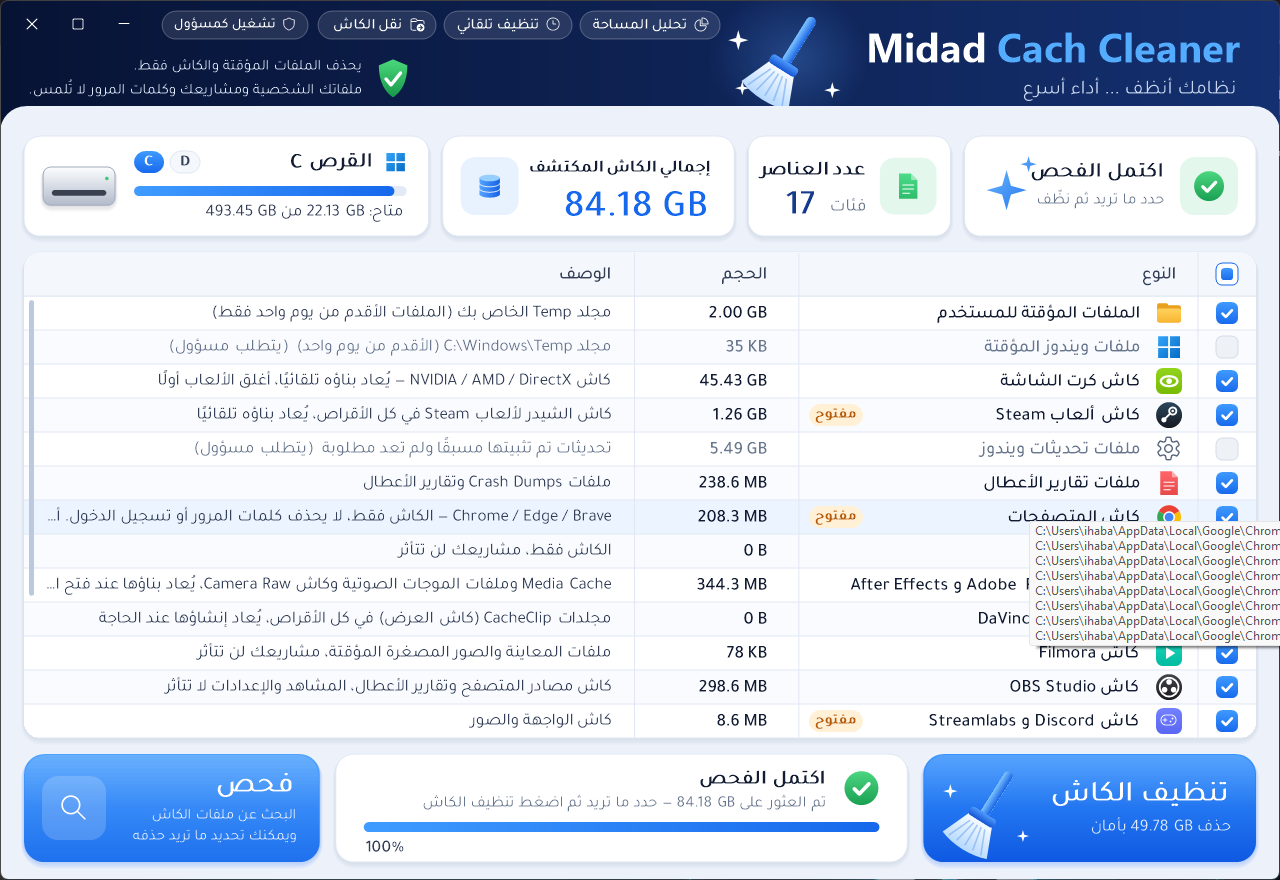
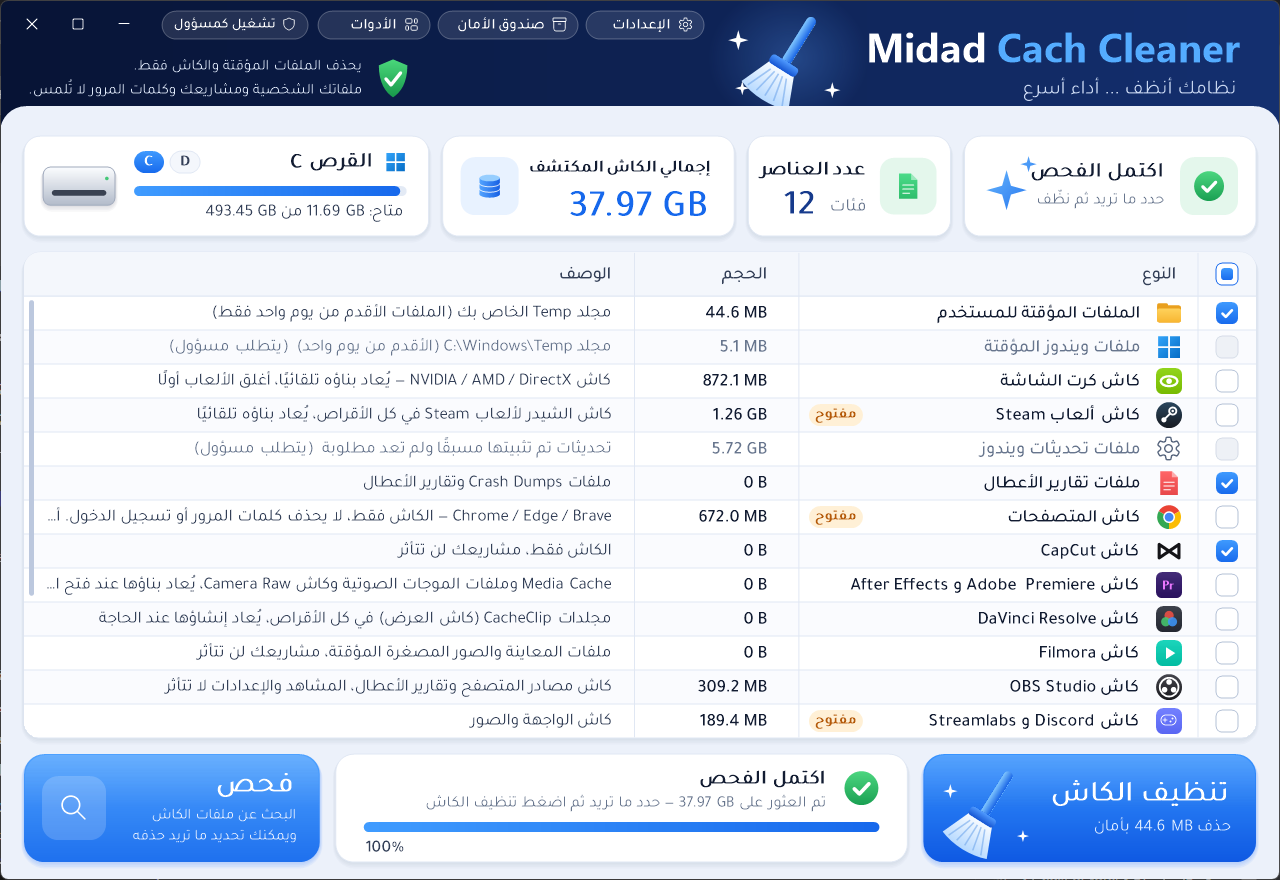
Download page for 1.5.0
New features and screenshots for the tools added in 1.4.0 and 1.5.0,
updated safety and removal notes, and the installer as the only download.

diff --git a/README.md b/README.md
@@ -10,12 +10,9 @@
 
 ## التحميل
 
-من صفحة [**آخر إصدار**](https://github.com/midad1ar/Midad-Cach-Cleaner-Releases/releases/latest) حمّل أحد الملفين:
+من صفحة [**آخر إصدار**](https://github.com/midad1ar/Midad-Cach-Cleaner-Releases/releases/latest) حمّل الملف `MidadCachCleaner-Setup.exe`.
 
-| الملف | الاستخدام |
-|---|---|
-| `MidadCachCleaner-Setup.exe` | مثبّت: يضيف البرنامج لقائمة ابدأ وسطح المكتب، ويمكن إزالته من إعدادات ويندوز ← التطبيقات. لا يحتاج صلاحيات مسؤول. |
-| `MidadCachCleaner-Portable.exe` | نسخة محمولة تعمل مباشرة بدون تثبيت. |
+المثبّت يضيف البرنامج لقائمة ابدأ وسطح المكتب، ويمكن إزالته من إعدادات ويندوز ← التطبيقات. لا يحتاج صلاحيات مسؤول، ويحدّث النسخة المثبتة إن وُجدت.
 
 يعمل على ويندوز 10 و 11 بدون تثبيت أي شيء إضافي (يستخدم .NET Framework 4.8 الموجود في ويندوز).
 
@@ -26,21 +23,52 @@
 - **فحص وتنظيف 19 فئة من الكاش:** الملفات المؤقتة، كاش كرت الشاشة، Steam، تحديثات ويندوز، تقارير الأعطال، المتصفحات (Chrome / Edge / Brave)، CapCut، Discord، Streamlabs، VS Code، Spotify، Telegram، pip، npm، Gradle، Flutter، NuGet، وسلة المحذوفات.
 - **كاش برامج المونتاج والبث:** Adobe Premiere و After Effects (Media Cache وملفات الموجات الصوتية وكاش Camera Raw)، و DaVinci Resolve (CacheClip)، و Filmora، و OBS Studio.
 - **تحليل المساحة:** يعرض أكبر المجلدات (مع الدخول إلى داخلها) وأكبر 100 ملف في أي قرص، مع توضيح للملفات المعروفة مثل hiberfil.sys و Windows.old. يعرض فقط ولا يحذف أي شيء.
-- **التحقق من التحديثات:** يظهر زر أخضر عند صدور إصدار جديد، ويُحدَّث البرنامج بضغطة واحدة. المثبّت يُنزَّل من هذه الصفحة فقط، ولا يُشغَّل إلا إذا طابقت بصمته SHA-256 البصمة المنشورة.
+- **ضغط الألعاب والبرامج:** يضغط مجلدات ألعاب Steam و Epic والبرامج بتقنية الضغط المدمجة في ويندوز (نفس تقنية Compact OS). تعمل الألعاب كما هي، والملفات التي يحدّثها البرنامج تُفك تلقائيًا، ويمكن فك الضغط في أي وقت. يعرض التوفير المتوقع قبل البدء، وكثير من الألعاب الكبيرة يوفّر 10–30%.
+- **تنظيف التنزيلات الذكي:** يجد في مجلد التنزيلات:
+  - مثبتات لبرامج مثبتة عندك.
+  - ملفات zip فككتها بجانبها (يتحقق أن كل ملفاتها موجودة في المجلد).
+  - نسخًا مكررة بنفس المحتوى.
+  - تنزيلات لم تكتمل، وصور أقراص قديمة.
+  - لا يقترح أي ملف يستخدمه مشروع CapCut.
+- **مشاريع CapCut:** يقرأ مشاريع CapCut ويجد الفيديوهات والأصوات التي لا يستخدمها إلا مشاريع قديمة أو محذوفة، ومعها سلة المشاريع المحذوفة داخل CapCut.
+- **ماذا أكل مساحتي؟** يسجل كل يوم أحجام المجلدات الكبيرة والمساحة الفارغة، ثم يخبرك أي مجلد كبر هذا الأسبوع أو الشهر، ويتوقع متى سيمتلئ القرص بهذا المعدل. ويمكنه تنبيهك قبل أسبوع من امتلاء القرص.
+- **بقايا البرامج المحذوفة:** يجد مجلدات AppData و ProgramData لبرامج لم تعد مثبتة. يقارن أسماءها بقائمة البرامج وقائمة ابدأ و Program Files وتطبيقات المتجر، ولا يقترح إلا ما لم يتغير منذ شهرين على الأقل.
+- **المشاريع القديمة:** يجد node_modules و build و bin/obj و .venv ومعاينات Premiere وكاش DaVinci داخل مشاريع البرمجة والمونتاج. لا يعتبر المجلد قابلًا للحذف إلا إذا وجد ملف المشروع بجانبه، مثل package.json أو pubspec.yaml أو .csproj.
+- **صندوق الأمان:** ما تحذفه من بقايا البرامج والمشاريع القديمة يُنقل أولًا إلى صندوق على نفس القرص، وهو نقل فوري بدون نسخ. يمكنك استرجاعه بضغطة، ثم يُحذف تلقائيًا بعد المدة التي تختارها (3 أو 7 أو 14 أو 30 يومًا). ويمكن تفعيله لتنظيف الكاش أيضًا.
+- **صفحة الإعدادات:** فيها التنظيف التلقائي والتنبيهات وصندوق الأمان وتتبع المساحة، والفحص والتحقق من التحديثات عند الفتح.
+- **التحقق من التحديثات:** يظهر زر أخضر عند صدور إصدار جديد. المثبّت يُنزَّل من صفحة الإصدارات الرسمية فقط، ولا يُشغَّل إلا إذا طابقت بصمته SHA-256 البصمة المنشورة.
 - **كل الأقراص:** يكتشف الأقراص تلقائيًا ويعرض المساحة الفارغة وحجم الكاش في كل قرص.
 - **تنبيه البرامج المفتوحة:** علامة "مفتوح" بجانب البرامج التي تعمل الآن، لأن ملفاتها المستخدمة لا يمكن حذفها.
 - **زر إيقاف:** يمكن إيقاف الفحص أو التنظيف في أي لحظة.
 - **نقل الكاش إلى قرص آخر:** ينقل كاش Gradle و Hugging Face و pip و npm و NuGet و Flutter إلى قرص آخر، ويوجّه الأدوات للمكان الجديد. يمكن إرجاعه في أي وقت.
-- **تنظيف تلقائي:** يومي أو أسبوعي أو شهري في الخلفية، مع تنبيه عندما تقل مساحة القرص C.
+- **تنظيف تلقائي:** يومي أو أسبوعي أو شهري في الخلفية، مع تنبيه عندما تقل مساحة القرص C أو عندما يقترب امتلاؤه.
 - **يتذكر اختياراتك** بين مرة وأخرى.
+
+| الأدوات | ضغط الألعاب والبرامج |
+|---|---|
+| ![الأدوات](docs/tools.png) | ![ضغط الألعاب والبرامج](docs/compress.png) |
+
+| تنظيف التنزيلات الذكي | مشاريع CapCut |
+|---|---|
+| ![تنظيف التنزيلات](docs/downloads.png) | ![مشاريع CapCut](docs/capcut.png) |
+
+| ماذا أكل مساحتي؟ | صندوق الأمان |
+|---|---|
+| ![ماذا أكل مساحتي](docs/growth.png) | ![صندوق الأمان](docs/box.png) |
+
+| المشاريع القديمة | بقايا البرامج المحذوفة |
+|---|---|
+| ![المشاريع القديمة](docs/projects.png) | ![بقايا البرامج](docs/leftovers.png) |
+
+| الإعدادات | المثبّت |
+|---|---|
+| ![الإعدادات](docs/settings.png) | ![المثبّت](docs/setup.png) |
 
 | تحليل المساحة | نقل الكاش |
 |---|---|
 | ![تحليل المساحة](docs/space.png) | ![نقل الكاش](docs/move-caches.png) |
 
-| التنظيف التلقائي | المثبّت |
-|---|---|
-| ![التنظيف التلقائي](docs/auto-clean.png) | ![المثبّت](docs/setup.png) |
+صور الأدوات الجديدة فيها بيانات تجريبية.
 
 ## الأمان
 
@@ -51,11 +79,14 @@
 - الملفات المستخدمة حاليًا يتخطاها بدون أخطاء.
 - عند **نقل الكاش**: ينسخ أولًا ثم يتحقق من عدد الملفات وحجمها، ولا يحذف المكان القديم إلا بعد نجاح التحقق.
 - التنظيف التلقائي لا يفرّغ سلة المحذوفات، ويتخطى البرامج المفتوحة.
-- **تحليل المساحة** يقرأ فقط: لا يحذف ولا ينقل أي ملف، ولا يتبع الروابط.
+- بقايا البرامج والمشاريع القديمة لا تُحذف مباشرة: تُنقل إلى صندوق الأمان ويمكن استرجاعها حتى انتهاء المدة. وعند إفراغ الصندوق تُحذف الروابط كروابط، ولا يُلمس ما تشير إليه.
+- ضغط الألعاب والبرامج لا يغير محتوى أي ملف، ويمكن فكه في أي وقت. لا يعمل على مجلد ويندوز أو جذر القرص أو مجلد المستخدم أو OneDrive، ولا يتبع الروابط. وقبل فك الضغط يتأكد أن على القرص مساحة كافية.
+- تنظيف التنزيلات ومشاريع CapCut ينقلان الملفات إلى صندوق الأمان، ولا يحددان مسبقًا إلا ما هو آمن. ولا تُنقل ملفات CapCut وهو مفتوح.
+- تتبع المساحة يقرأ الأحجام فقط، ويعمل في الخلفية بأولوية منخفضة. وسجله محفوظ على جهازك فقط.
 
 ## الإزالة
 
-من إعدادات ويندوز ← التطبيقات ← **Midad Cach Cleaner** ← إلغاء التثبيت. تُحذف إعدادات البرنامج والمهمة المجدولة، ويبقى أي كاش نقلته في مكانه الجديد.
+من إعدادات ويندوز ← التطبيقات ← **Midad Cach Cleaner** ← إلغاء التثبيت. تُحذف إعدادات البرنامج والمهمة المجدولة وسجل تتبع المساحة، **ويُفرَّغ صندوق الأمان**، فاسترجع منه ما تريده قبل الإزالة. ويبقى أي كاش نقلته في مكانه الجديد، وتبقى الألعاب المضغوطة مضغوطة وتعمل كما هي.
 
 ## التحقق من الملفات
 
@@ -69,4 +100,4 @@ Get-FileHash .\MidadCachCleaner-Setup.exe -Algorithm SHA256
 
 ---
 
-**English:** Midad Cach Cleaner is a Windows 10/11 app that safely cleans temp files and app caches (including Adobe, DaVinci Resolve, Filmora and OBS), shows what fills a drive, moves developer caches to another drive, can run on a schedule, and updates itself with SHA-256 verification. Download the installer or the portable exe from the [latest release](https://github.com/midad1ar/Midad-Cach-Cleaner-Releases/releases/latest).
+**English:** Midad Cach Cleaner is a Windows 10/11 app that safely cleans temp files and app caches (including Adobe, DaVinci Resolve, Filmora and OBS), shows what fills a drive, tracks which folders grow and predicts when a drive will be full, compresses games and programs with Windows' built-in transparent compression, cleans finished files from Downloads (installed installers, extracted archives, duplicates), finds media of old CapCut projects, finds leftovers of uninstalled programs and re-creatable folders in old projects (node_modules, build, previews), keeps everything it removes in an undoable safety box, moves developer caches to another drive, can run on a schedule, and updates itself with SHA-256 verification. Download the installer from the [latest release](https://github.com/midad1ar/Midad-Cach-Cleaner-Releases/releases/latest).
